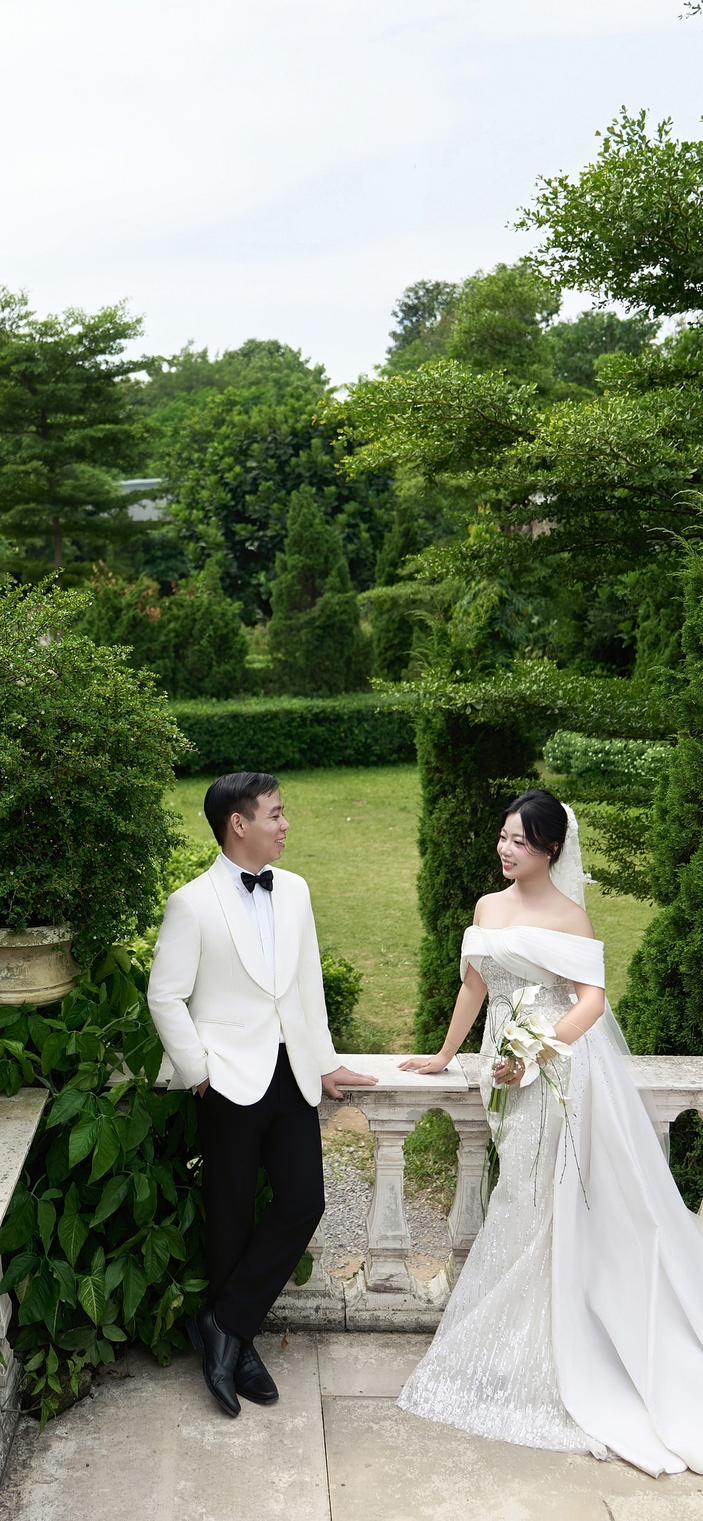
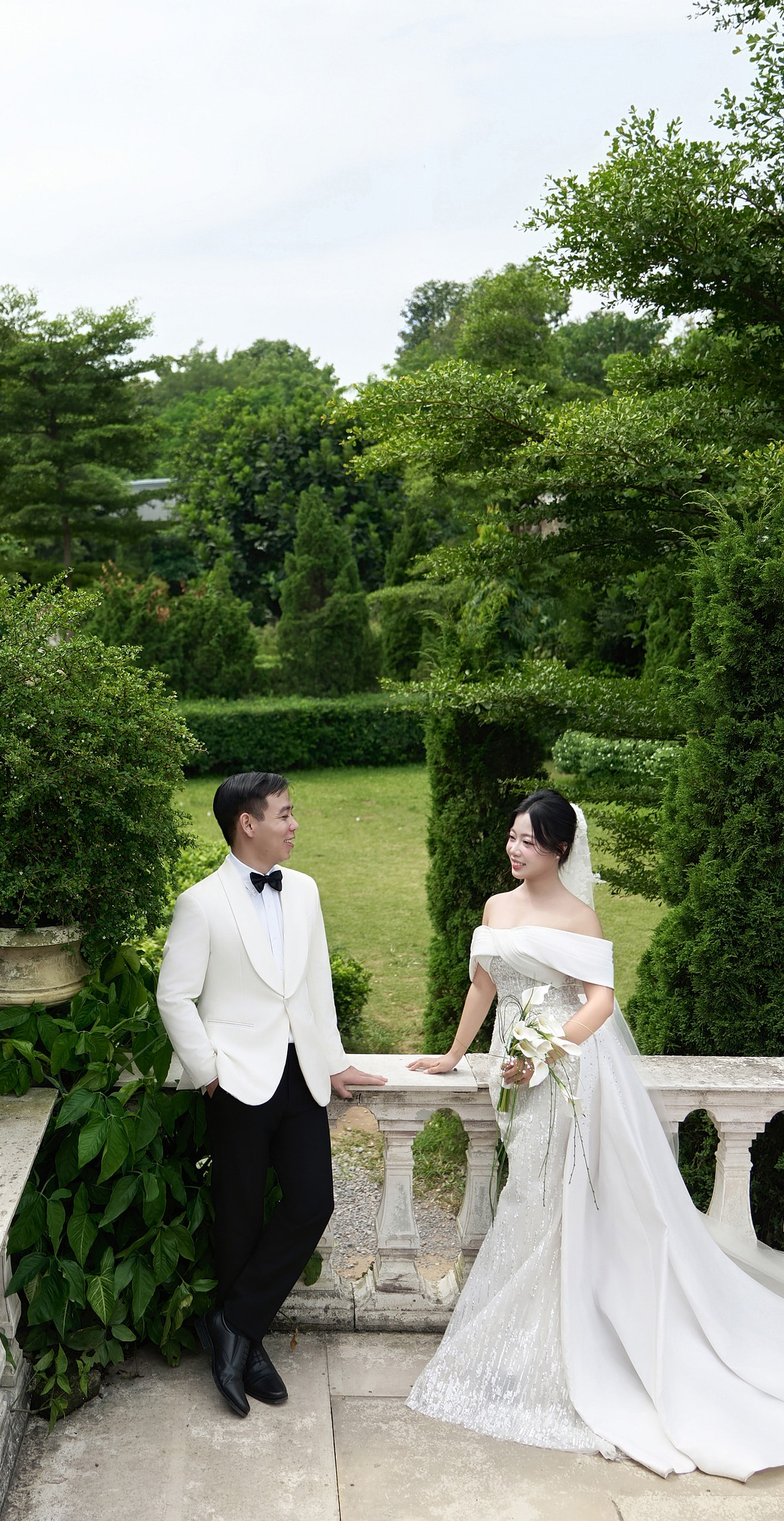
deploy: deploy thiệp cưới to gh-pages [skip ci] 9a41378f32f5104c22a0cdd767d7ca8508471379

diff --git a/index.html b/index.html
@@ -42,7 +42,7 @@
     <div class="nova-cover-photo-wrap">
       <picture>
         <source media="(max-width: 768px)" srcset="images/wedding/hero_mobile_portrait.jpg?v=studio_4k">
-        <img class="nova-cover-photo" src="images/wedding/PQD06764.jpg?v=studio_4k"
+        <img class="nova-cover-photo" src="images/wedding/hero_desktop_centered.jpg?v=studio_4k"
           alt="Nguyễn Phú Cường &amp; Vũ Thuỳ Linh">
       </picture>
     </div>
@@ -187,7 +187,7 @@
       <div class="hero-bg-cover">
         <picture>
           <source media="(max-width: 768px)" srcset="images/wedding/hero_mobile_portrait_cropped.jpg?v=studio_4k">
-          <img class="hero-bg-img" src="images/wedding/PQD06764.jpg?v=studio_4k"
+          <img class="hero-bg-img" src="images/wedding/hero_desktop_centered.jpg?v=studio_4k"
             alt="Wedding Cover Phú Cường & Thuỳ Linh" fetchpriority="high">
         </picture>
         <div class="hero-dark-overlay"></div>

diff --git a/css/style.css b/css/style.css
@@ -5134,7 +5134,7 @@ body.nova-cover-active {
   width: 100%;
   height: 100%;
   object-fit: cover;
-  transform: translateX(-9.5vw);
+  object-position: center 30%;
   animation: nvpc-drift 14s ease-in-out 1.6s infinite;
 }
 
@@ -5493,11 +5493,11 @@ body.nova-cover-active {
 
   0%,
   100% {
-    transform: scale(1.06) translateX(-9.5vw) translateY(0);
+    transform: scale(1.06) translateY(0);
   }
 
   50% {
-    transform: scale(1.1) translateX(-9.5vw) translateY(-10px);
+    transform: scale(1.1) translateY(-10px);
   }
 }
 
